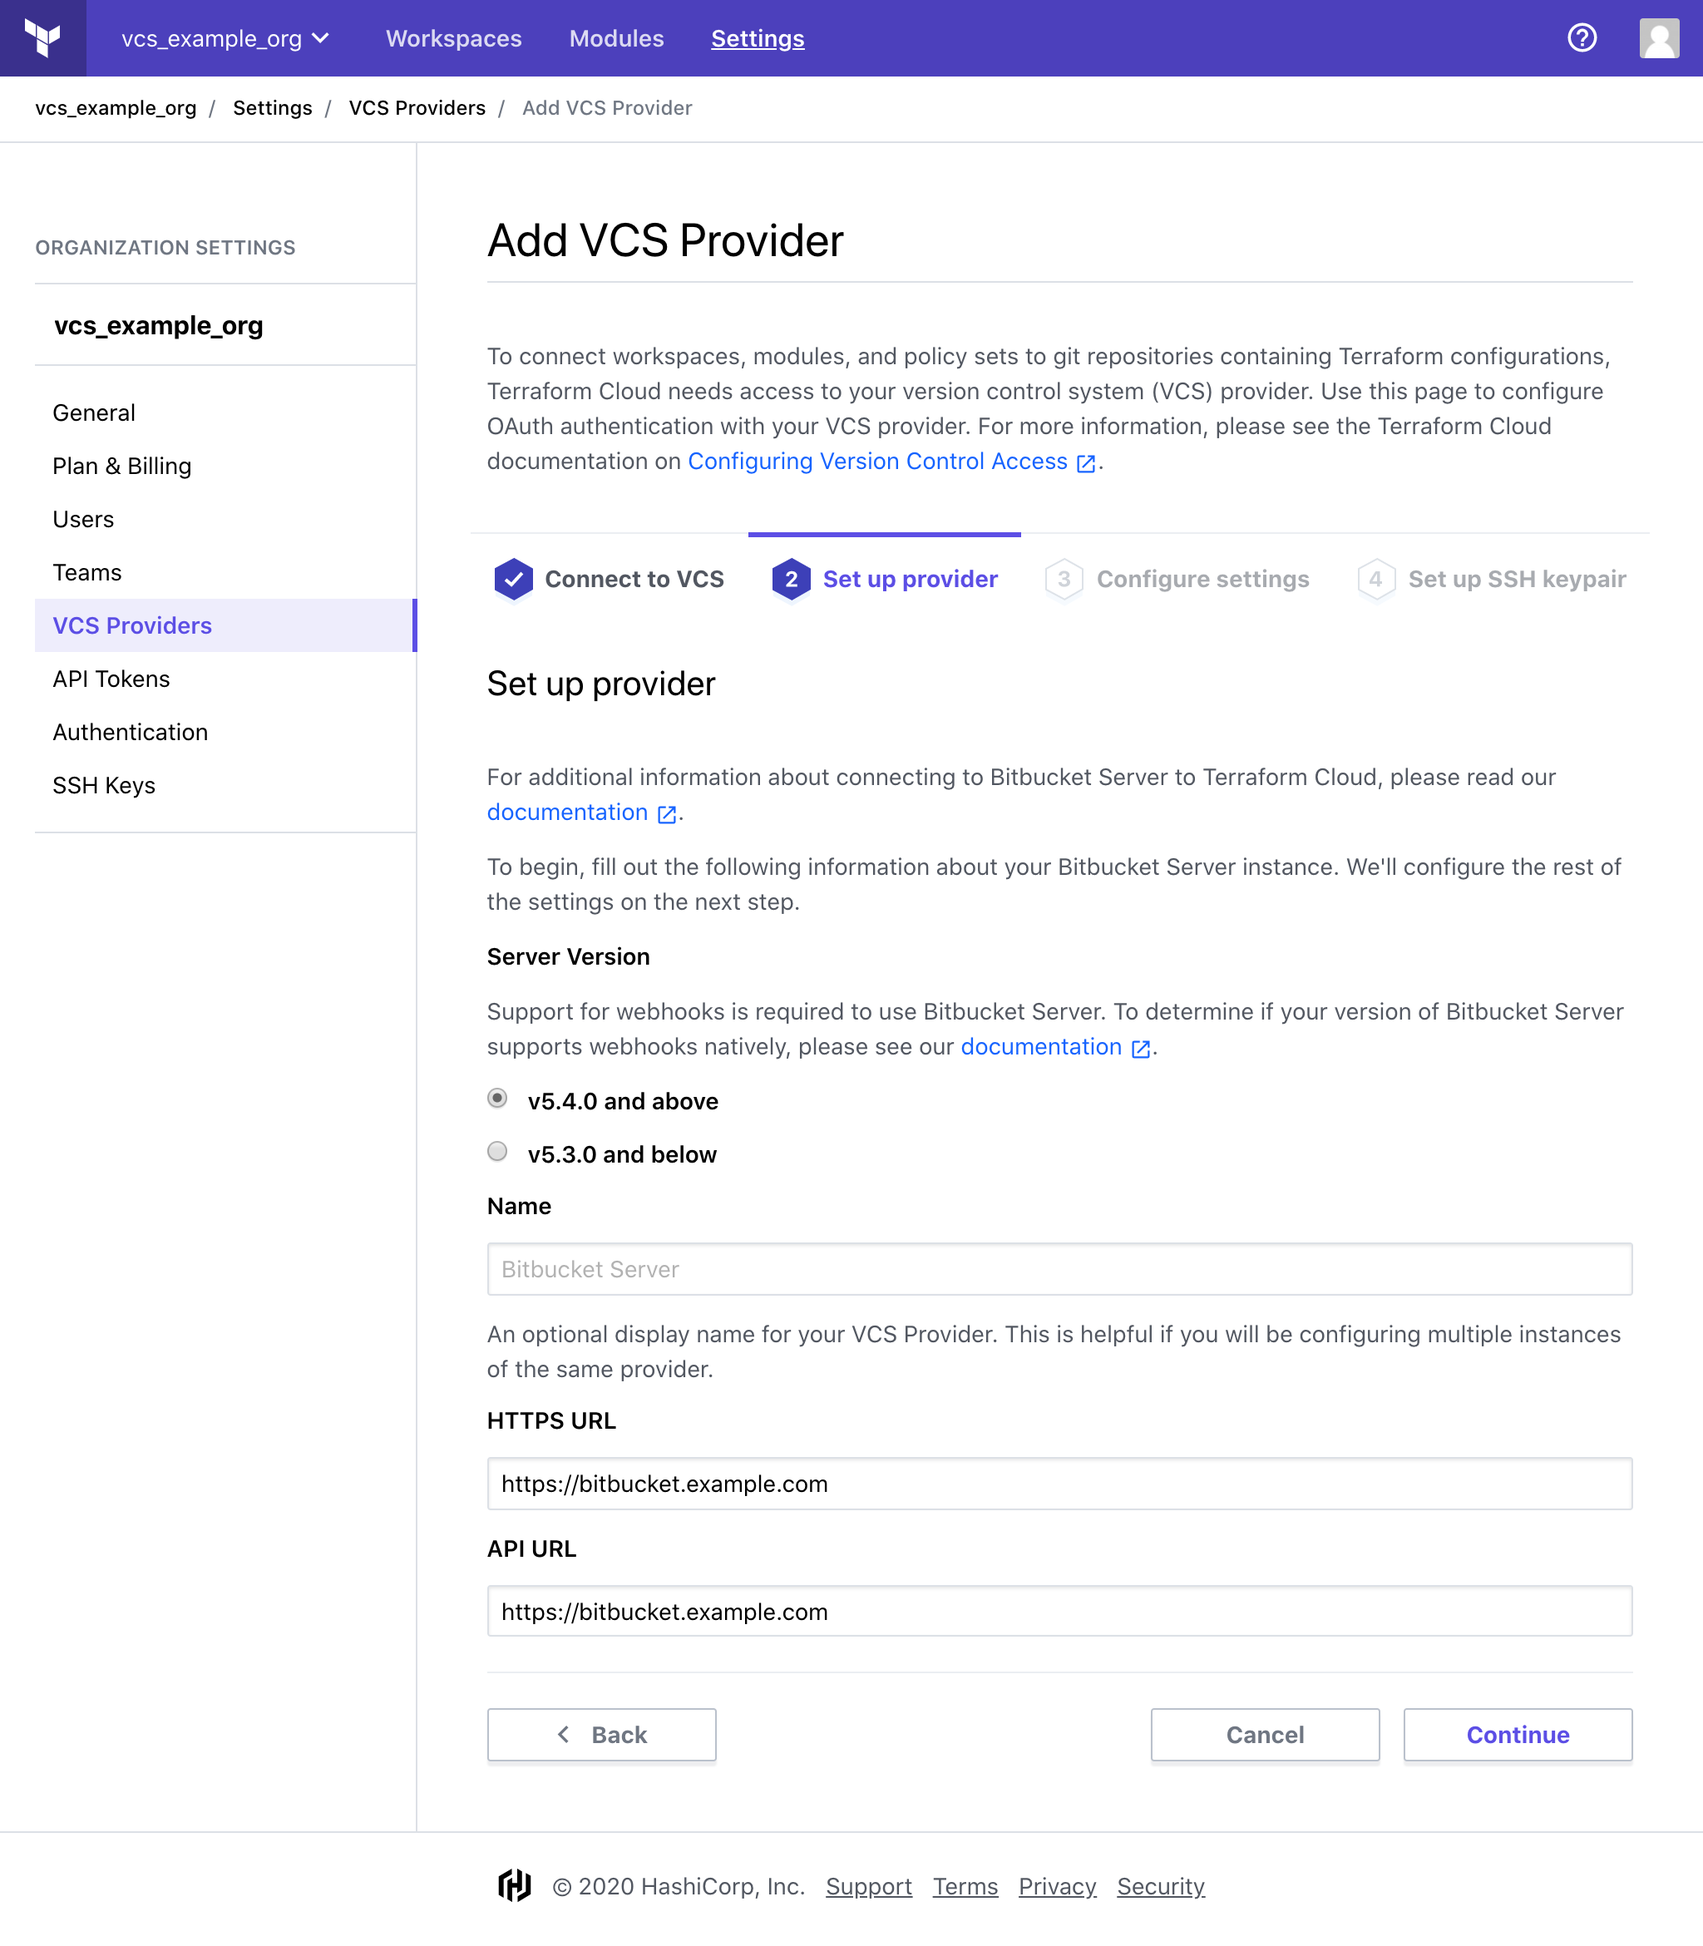
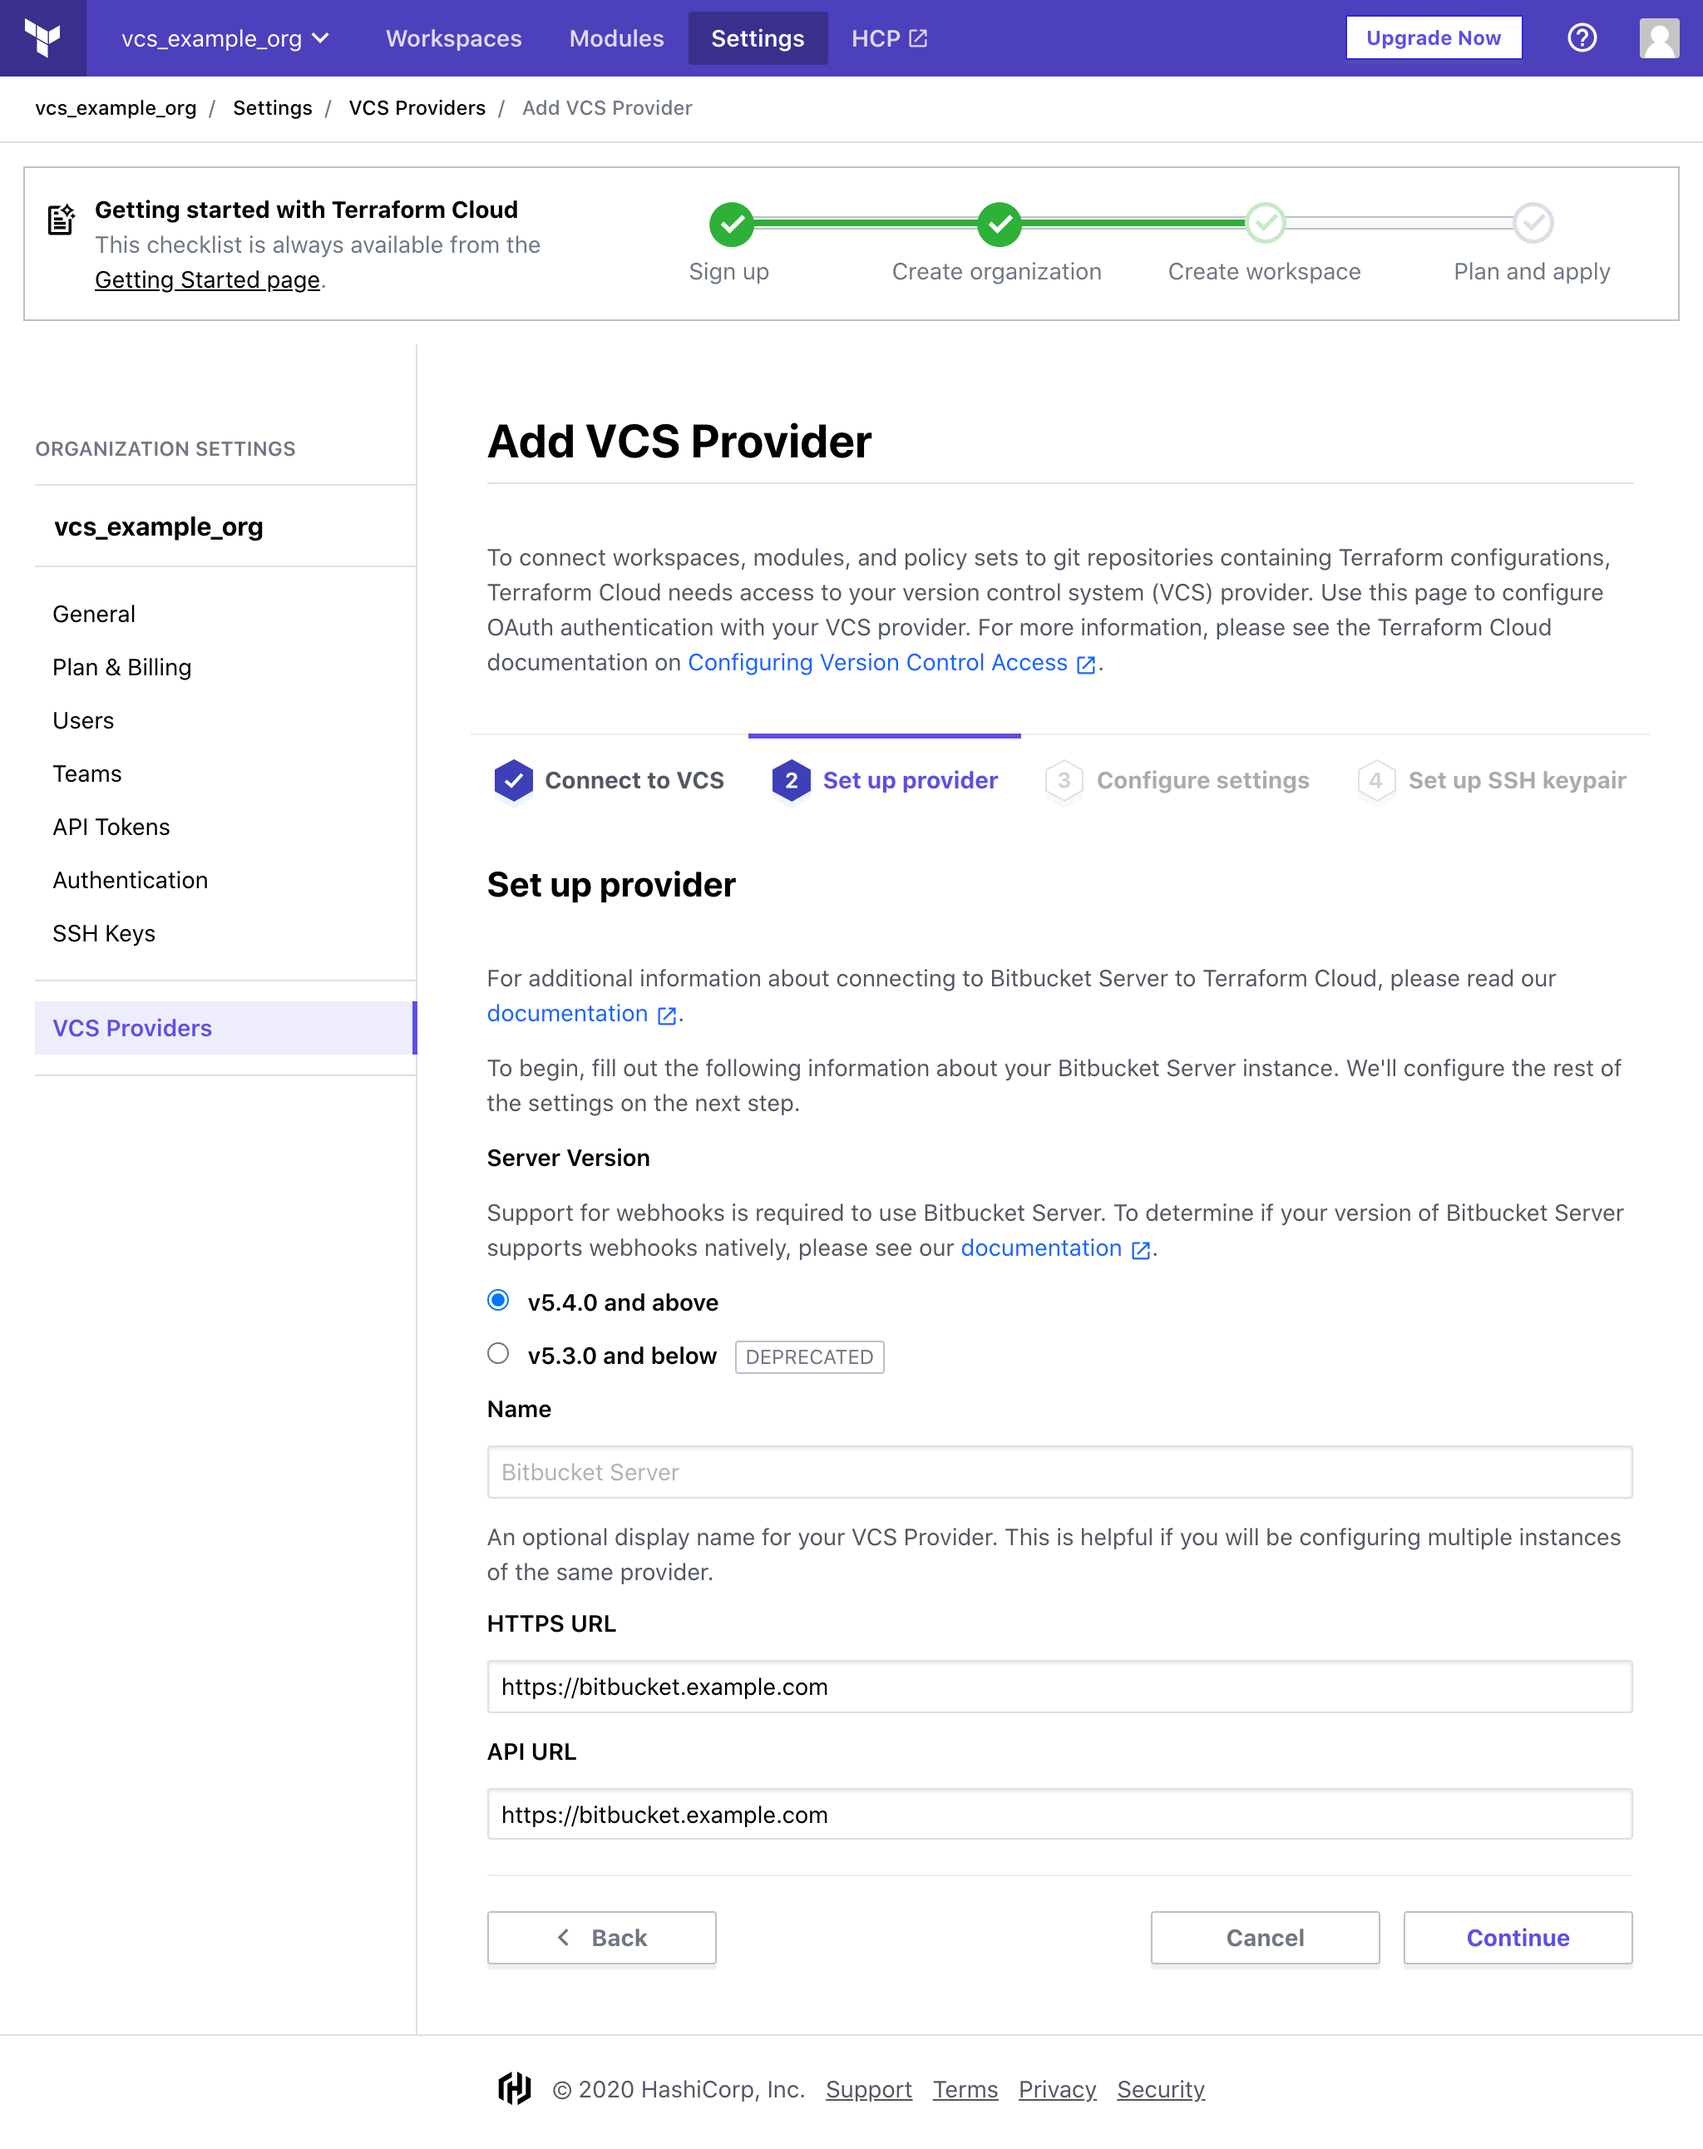
Add deprecation notice for Bitbucket Server v5.3.0 and below

diff --git a/content/source/docs/cloud/vcs/bitbucket-server.html.md b/content/source/docs/cloud/vcs/bitbucket-server.html.md
@@ -18,13 +18,13 @@ Configuring a new VCS provider requires permission to manage VCS settings for th
 
 Note that Bitbucket Server requires both OAuth authentication and an SSH key, both of which are covered in the instructions below.
 
--> **Version note:** Terraform Cloud supports Bitbucket Server versions 4.9.1 and newer, and Bitbucket Data Center versions 5.4.0 and newer. HashiCorp does not test older versions of Bitbucket Server with Terraform Cloud, and they might not work as expected. Also note that, although we do not deliberately remove support for versions that have reached end of life (per the [Atlassian Support End of Life Policy](https://confluence.atlassian.com/support/atlassian-support-end-of-life-policy-201851003.html)), our ability to resolve customer issues with end of life versions might be limited.
+-> **Version note:** Terraform Cloud supports Bitbucket Server versions 4.9.1 and above, and Bitbucket Data Center versions 5.4.0 and above. HashiCorp does not test older versions of Bitbucket Server with Terraform Cloud, and they might not work as expected. Also note that, although we do not deliberately remove support for versions that have reached end of life (per the [Atlassian Support End of Life Policy](https://confluence.atlassian.com/support/atlassian-support-end-of-life-policy-201851003.html)), our ability to resolve customer issues with end of life versions might be limited.<br /><br />Terraform Cloud will soon deprecate support for Bitbucket Server versions 5.3.0 and below.
 
 ~> **Important:** Terraform Cloud needs to contact Bitbucket Server over both SSH and HTTP (or HTTPS) during setup and during normal operation. For the SaaS version of Terraform Cloud, this means Bitbucket Server must be internet-accessible on its SSH and HTTP(S) ports; for Terraform Enterprise, you must have network connectivity between your Terraform Enterprise and Bitbucket Server instances. <br /><br /> Note that [Bitbucket Server's default ports](https://confluence.atlassian.com/bitbucketserverkb/which-ports-does-bitbucket-server-listen-on-and-what-are-they-used-for-806029586.html) are 7999 for SSH and 7990 for HTTP; check your configuration to confirm your instance's real ports.
 
 ## Before You Begin: Determine Your Bitbucket Server Version
 
-Terraform Cloud requires support for the delivery of webhooks to perform many operations, including tracking newly available configuration versions. When using Bitbucket Server version 5.3 or lower, Atlassian's webhooks plugin is required to be configured on Bitbucket Server. If using version 5.4 or higher, no plugin is required, as webhooks are supported natively.
+Terraform Cloud requires support for the delivery of webhooks to perform many operations, including tracking newly available configuration versions. When using Bitbucket Server version 5.3 or below (**deprecated**), Atlassian's webhooks plugin is required to be configured on Bitbucket Server. If using version 5.4 or above, no plugin is required, as webhooks are supported natively.
 
 1. Open your Bitbucket server instance in your browser and log in as an admin user.
 2. In the footer of every page is a reference to the instance's current version. **If your version is greater than v5.4.0, you may skip all remaining steps in this section.**
